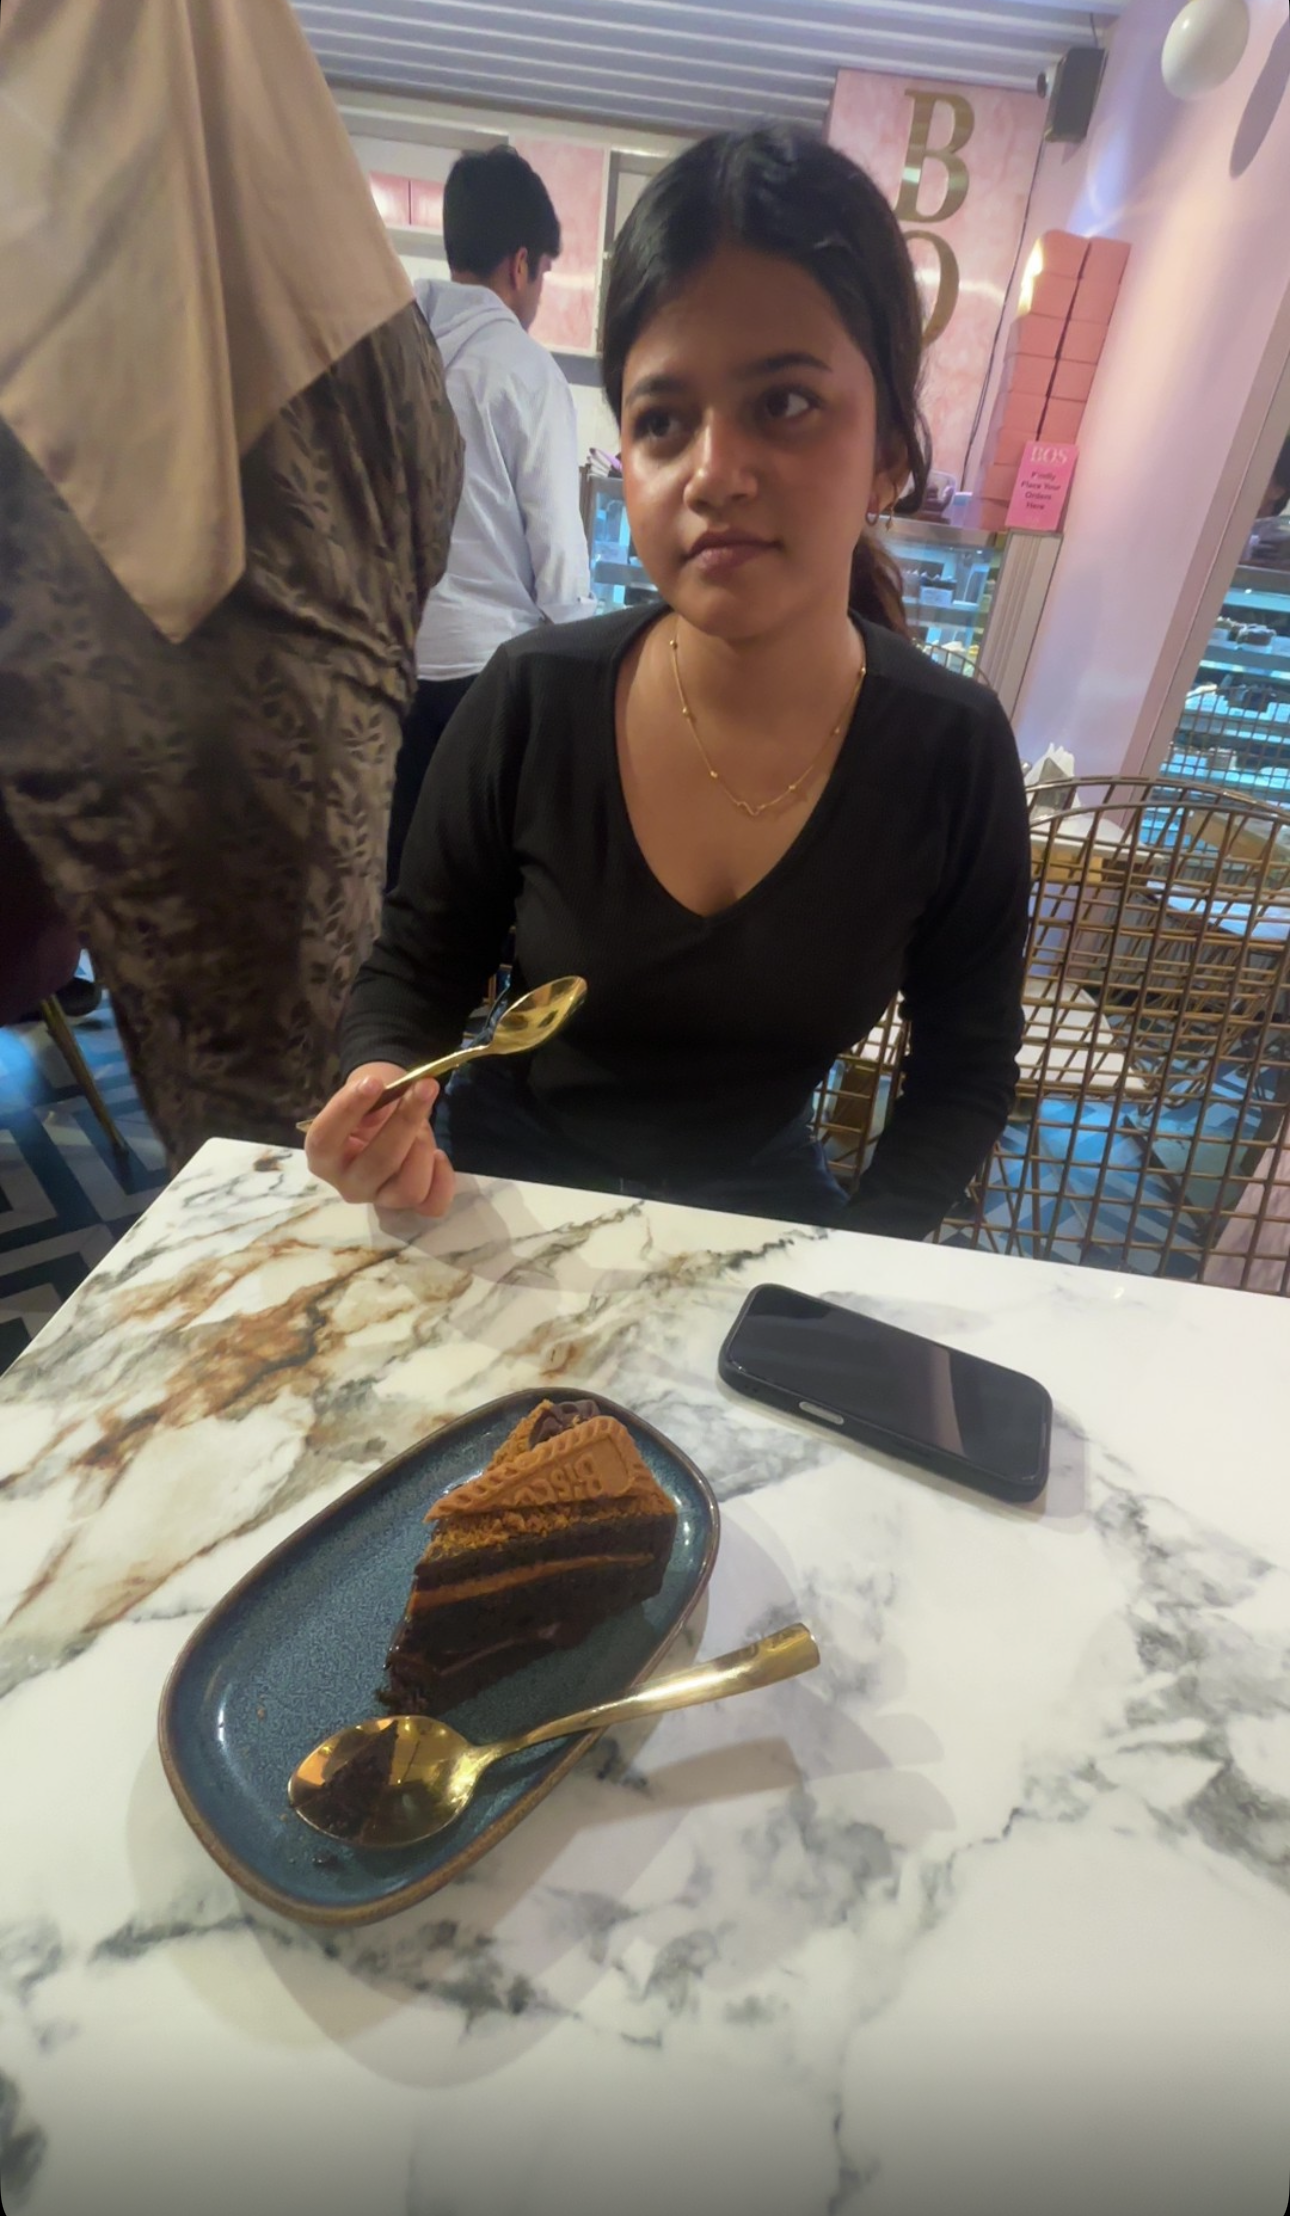
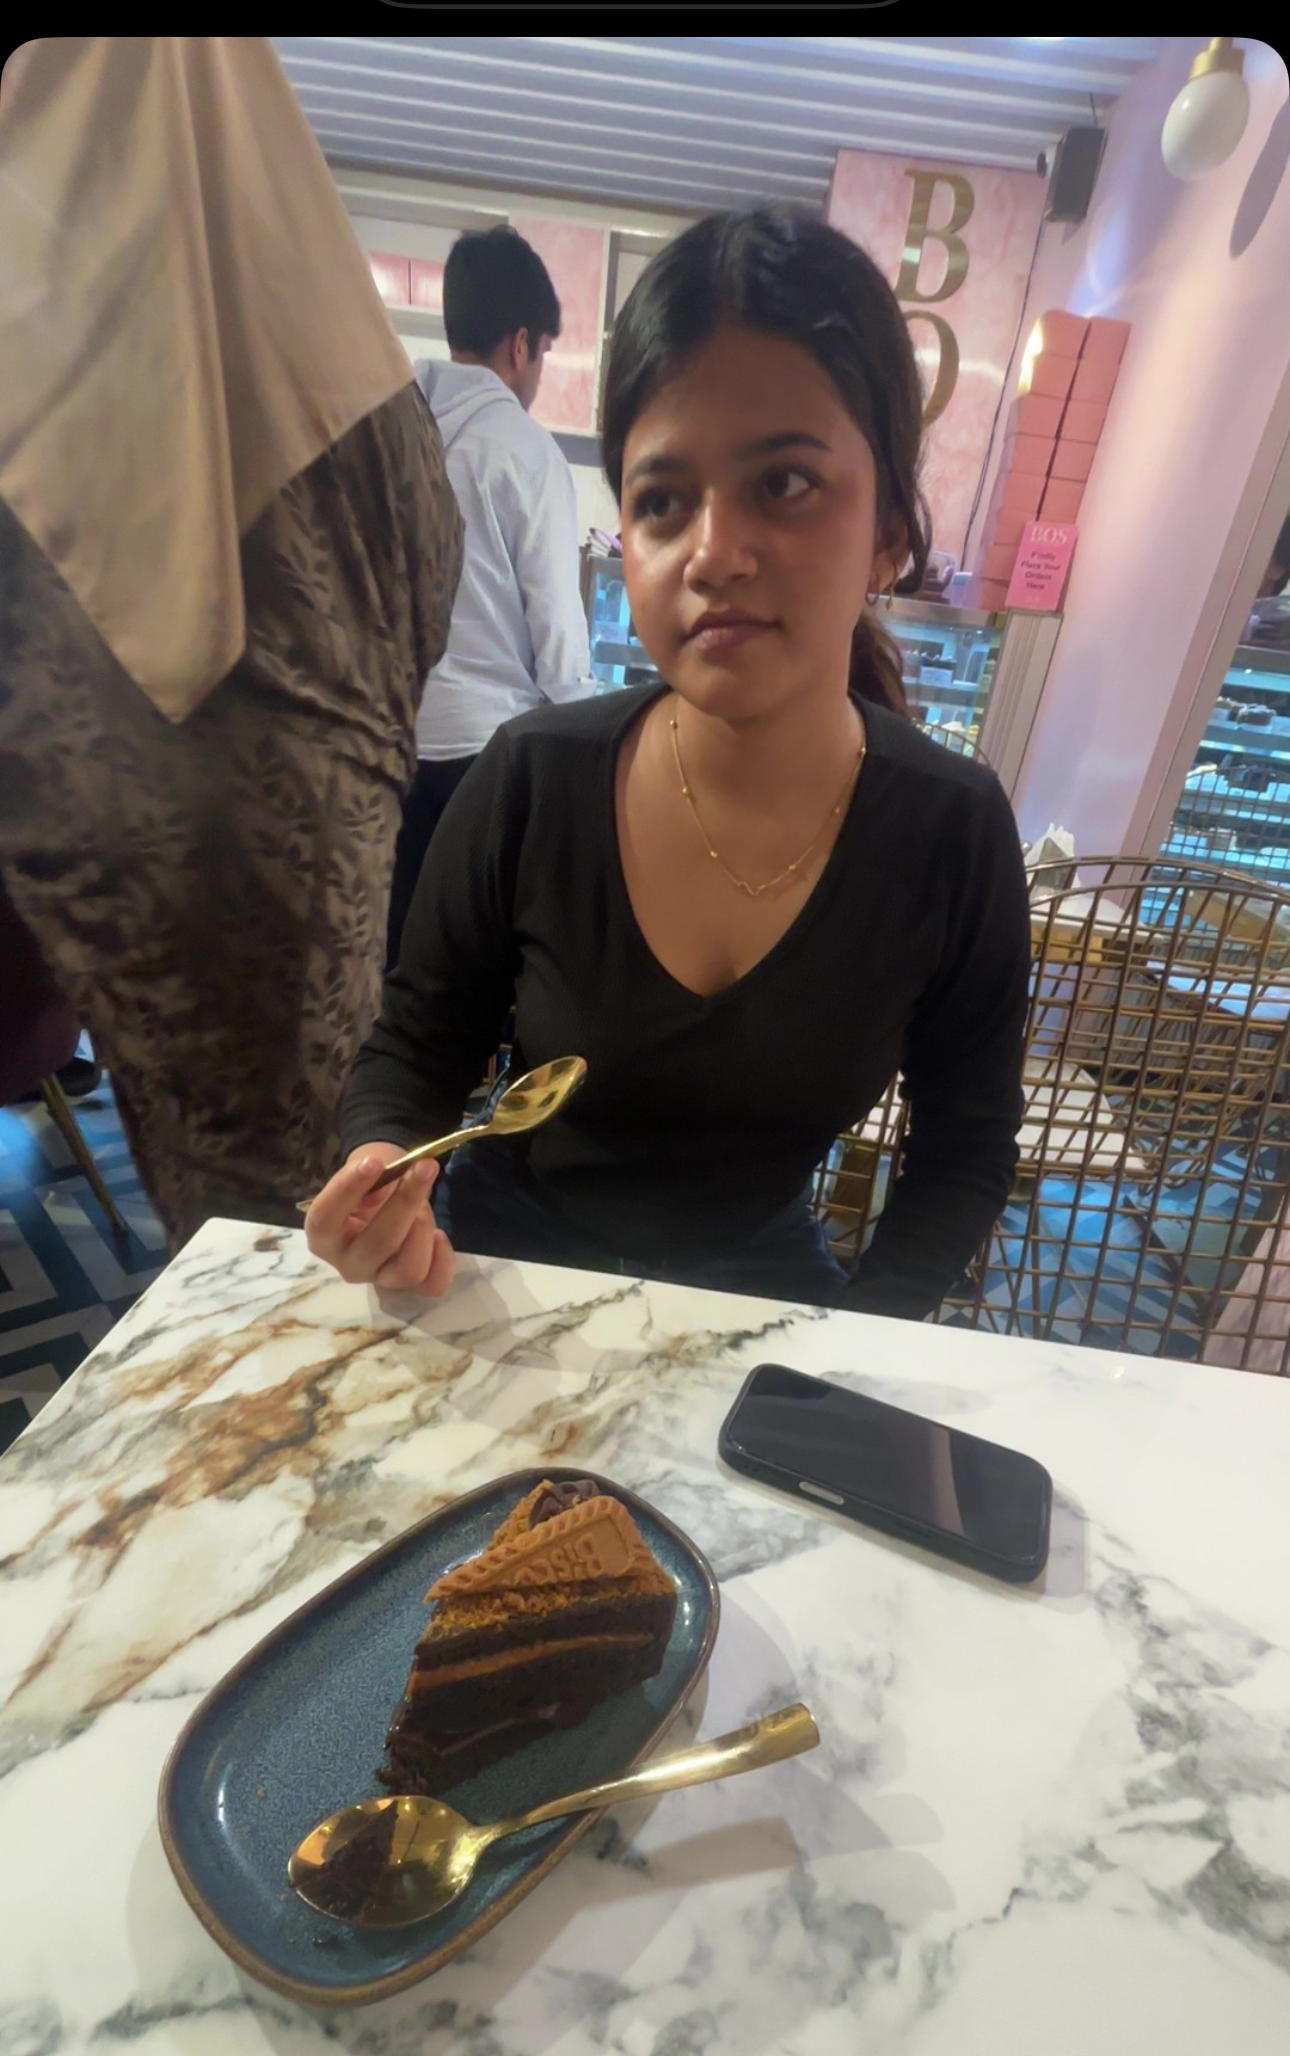
Adjust image cropping and object-position to ensure face is 100% visible in all background cards

diff --git a/index.html b/index.html
@@ -970,7 +970,7 @@
       width: 100%;
       height: 100%;
       object-fit: cover;
-      object-position: center;
+      object-position: center 12%;
       display: block;
     }
 
